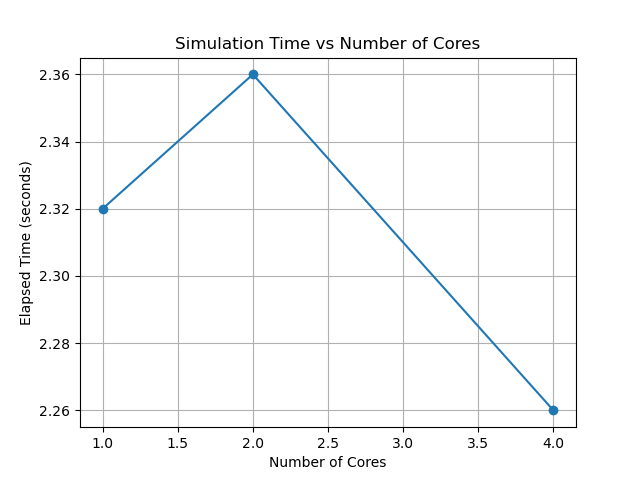
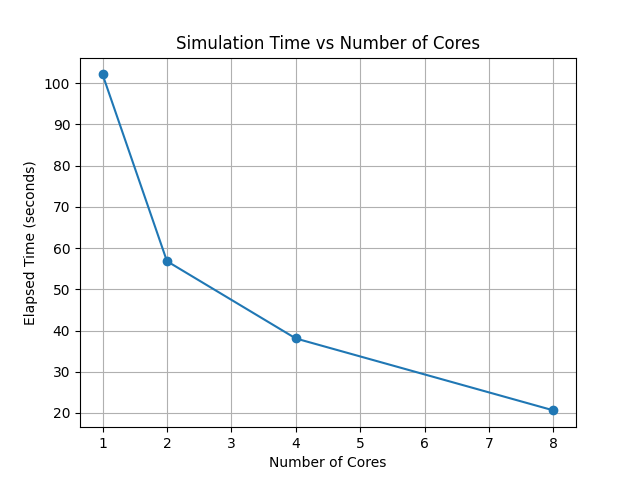
8 core

diff --git a/graph.py b/graph.py
@@ -17,7 +17,7 @@ def run_simulation(num_cores, n_pods):
 def main():
     # Get the maximum number of cores on the machine
     max_cores = os.cpu_count()
-    
+    max_cores = 8
     n_pods = 2 ** int(math.log2(max_cores))
     
     # Initialize lists to store data for plotting
